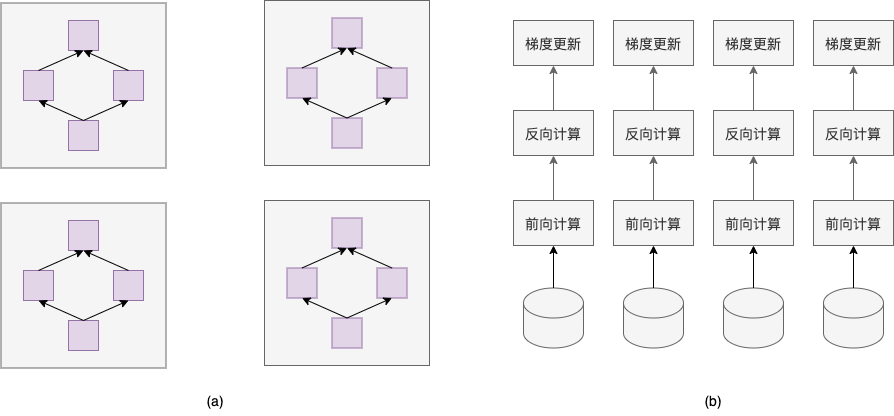
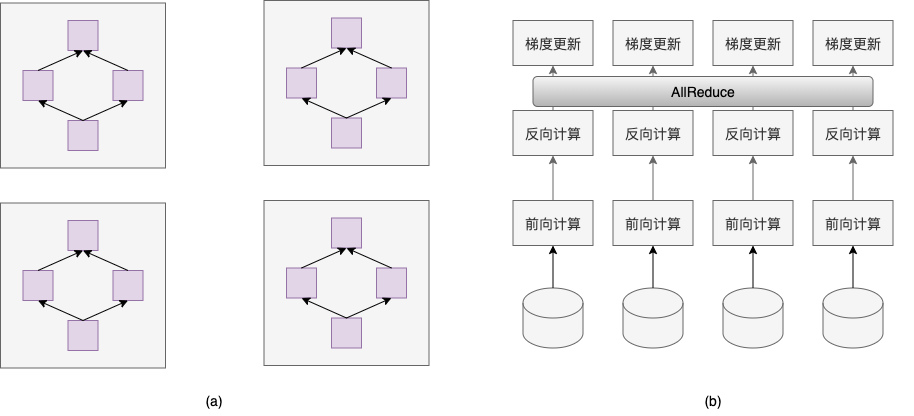
update

diff --git a/docs/source/paddle_fleet_rst/collective/collective_performance/data_parallel.rst b/docs/source/paddle_fleet_rst/collective/collective_performance/data_parallel.rst
@@ -1,10 +1,25 @@
 数据并行
 =========
 
-数据并行是深度学习领域最常用的并行方法。数据并行方式下，每个卡上保存完整的模型
-副本，并行处理多个数据。训练过程中，各个卡上的模型参数始终保持一致。通常，训练
-数据集被切分为多份，各个卡独立处理一份数据集，采用这种并行方式，加速模型训练过程。
+简介
+~~~~~~~~~~~~~~
 
+数据并行是深度学习领域最常用的并行方法。数据并行方式下，每个卡上保存完整的模型
+副本，并行处理多个数据。训练过程中，各个卡上的模型参数始终保持一致。如
+下图(a)所示。通常，训练数据集被切分为多份，各个卡独立处理一份数据集，采用这种
+并行方式，加速模型训练过程。
+
+.. image:: ../img/data_parallel.png
+  :width: 800
+  :alt: Data Parallel
+  :align: center
+
+原理介绍
+~~~~~~~~~~~~~~
+
+深度学习模型训练过程计算通常分为前向计算、反向计算和梯度更新。数据并行
+方式下，为了保持各个卡上参数一致性，在初始阶段通过广播的方式将第一张卡
+上的模型参数广播到其它
 
 
 计算融合
